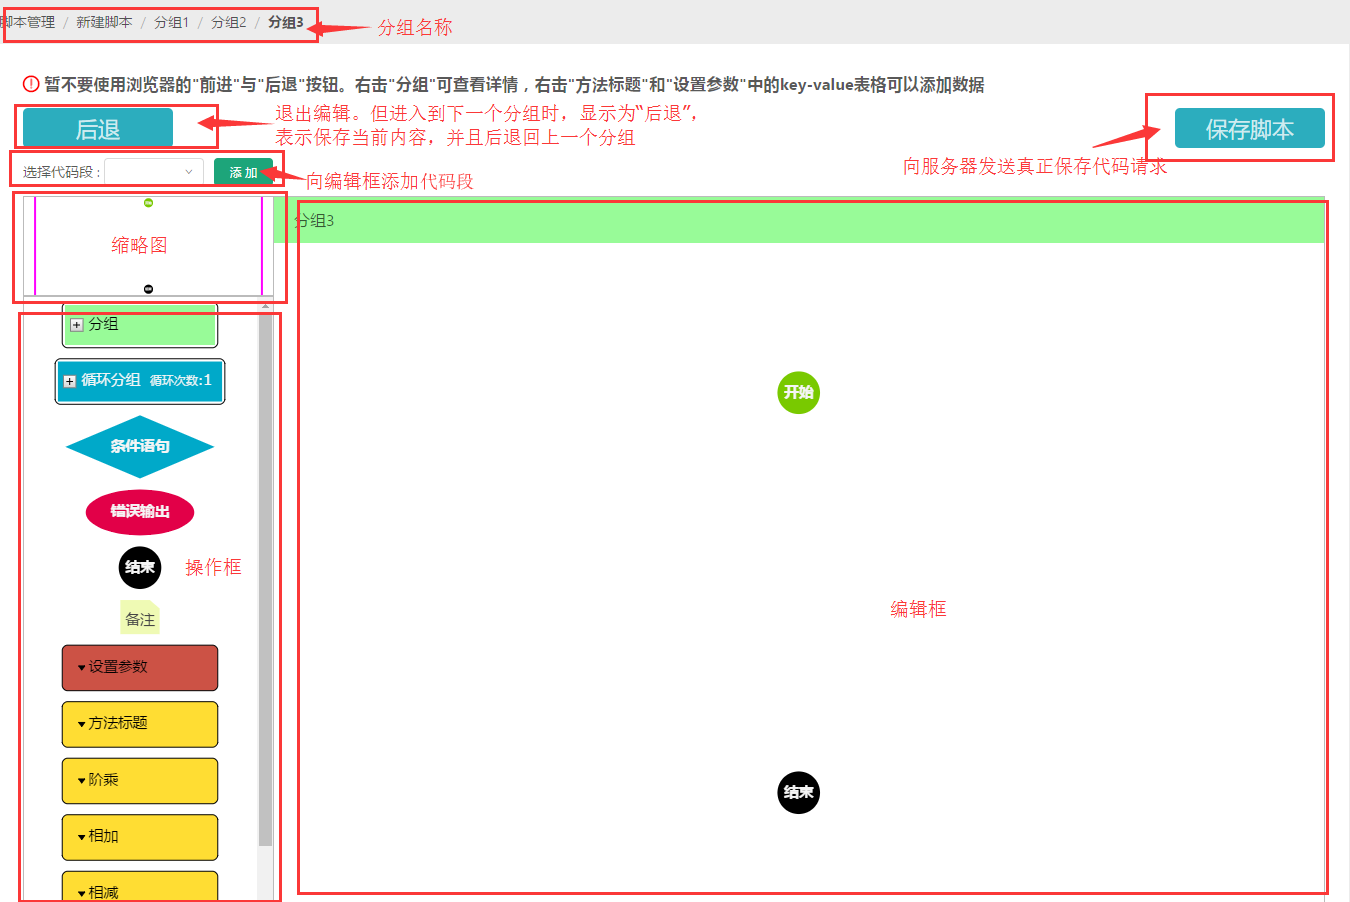
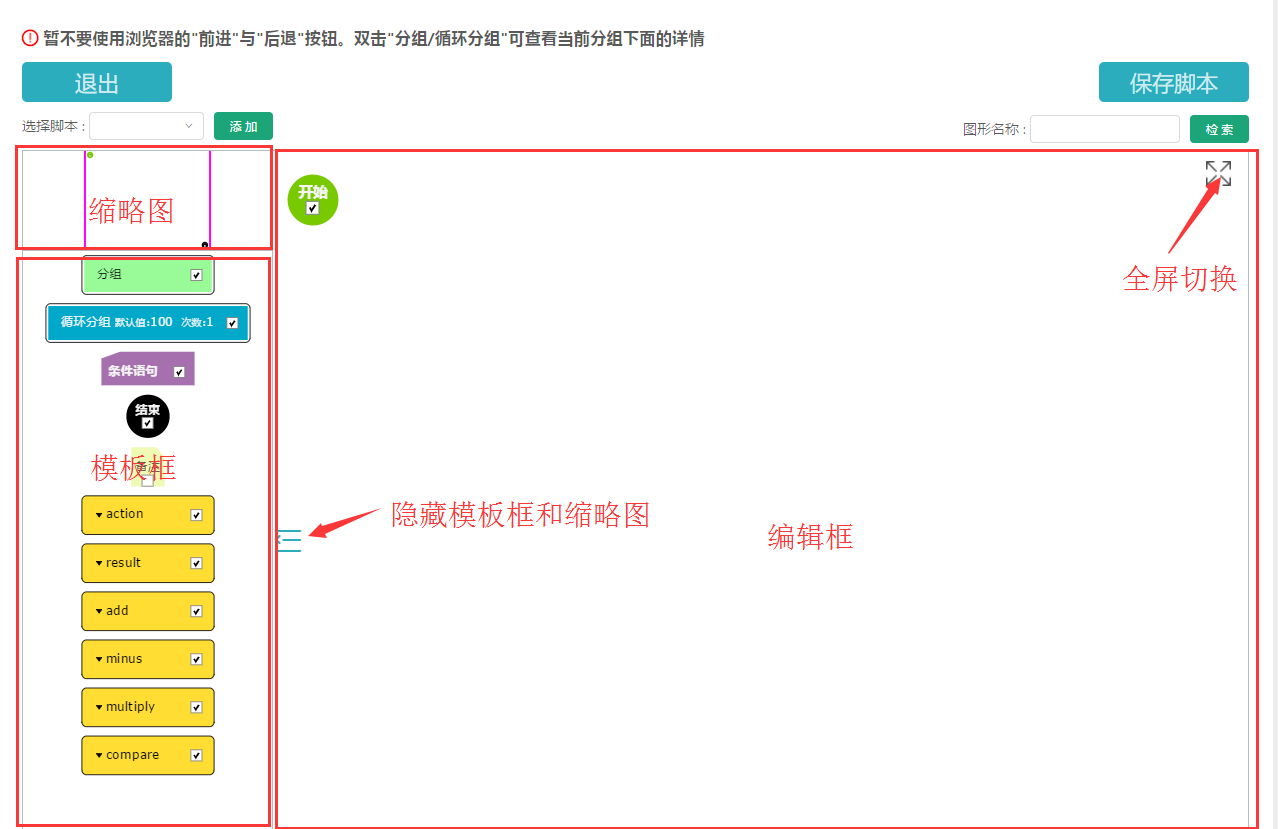
修改测试流程

diff --git a/src/container/hardwareTest/hardwareTesting.js b/src/container/hardwareTest/hardwareTesting.js
@@ -115,13 +115,13 @@ class HardwareTesting extends Component {
         console.log('selected', selectedKeys, info);
     }
     startTesting = ()=> {
-        if(this.state.percent===100){
+        if(this.state.percent===100 &&  !this.state.startLoopTest){
             this.setState({
                 startTest: false,
                 maskDisplay: 'none',
                 percent: 0
-            })
-            this.ws.close()
+            });
+            // this.stopWS()
         }else if (this.state.startTest) {
             const that = this;
             confirm({
@@ -132,7 +132,8 @@ class HardwareTesting extends Component {
                         maskDisplay: 'none',
                         percent: 0
                     });
-                    that.ws.close()
+                    that.ws.close();
+                    // that.stopWS()
                     // clearInterval(that.timer)
                 },
                 onCancel() {
@@ -151,35 +152,12 @@ class HardwareTesting extends Component {
     confirmTesting = ()=> {
         const serialNumbers = this.refs.serialNumbers.refs.input.value;
         const that = this;
-        const params = {
+        const parameters = {
             serial_number: serialNumbers,
             test_script_id: this.state.script.key,
             test_stand_id:this.state.test_stand.key,
-            // adapter_index:this.state.selectedAdapter.key
         }
-        axios({
-            url: `${configJson.prefix}/hardware_test`,
-            method: 'post',
-            params: params,
-            headers: getHeader()
-        })
-            .then(function (response) {
-                console.log(response.data);
-                message.success('开始测试')
-                that.setState({
-                    channel: response.data.channel,
-                    startTestModal: false,
-                    maskDisplay: 'block',
-                    startTest: !that.state.startTest,
-                    serial_number:serialNumbers
-                }, function () {
-                    that.openWS()
-                });
-            }).catch(function (error) {
-            console.log('获取出错', error);
-            converErrorCodeToMsg(error)
-        })
-        console.log('正式开始测试', serialNumbers)
+        that.openWS('start',parameters);
     }
     confirmLoopTesting=()=>{
         const serialNumbers = this.refs.serialNumbers.refs.input.value;
@@ -205,25 +183,59 @@ class HardwareTesting extends Component {
         })
         console.log('正式开始测试', serialNumbers)
     }
-    openWS = ()=> {
+    openWS = (command,parameters)=> {
+        console.log('parameters',parameters);
         const that=this;
-        this.ws = new WebSocket(`${configJson.wsPrefix}:${configJson.wsPort}/?channel=${this.state.channel}`);//url地址类似与get请求
+        this.ws = new WebSocket(`${configJson.wsPrefix}:${configJson.wsPort}/?token=${localStorage.getItem('usertoken')}`);//url地址类似与get请求
         this.ws.onopen = function () {
-            console.log('onopen')
+            console.log('onopen');
+            const sendData=JSON.stringify({
+                command:command,
+                parameters:parameters
+            })
+            that.ws.send(sendData);
         };
         this.ws.onmessage = function (evt) {
-            const {wsMessage}={...that.state}
-            if(JSON.parse(evt.data).percent){
+            const {wsMessage}={...that.state};
+            const evtData=JSON.parse(evt.data)
+            console.log('evt',evtData)
+            if(evtData.status_code === 200 && evtData.type === 'START_TEST'){
+                console.log('开始正确测试');
                 that.setState({
-                    percent:JSON.parse(evt.data).percent,
-                    wsMessage:wsMessage.concat(JSON.parse(evt.data).message)
-                },function () {
-                    if(that.state.percent===100 && that.state.startLoopTest){
-                        console.log('继续开始测试');
-                        that.ws.close()
-                        that.confirmLoopTesting()
-                    }
+                    startTestModal: false,
+                    maskDisplay: 'block',
+                    startTest: true,
                 })
+            }
+            if(evtData.status_code === 200 && evtData.type === 'STOP_TEST'){
+                console.log('结束正确测试');
+                that.ws.close();
+                if(that.state.percent===100 && that.state.startLoopTest){
+                    console.log('继续开始测试');
+                    // that.stopWS();
+                    that.setState({
+                        percent:0,
+                        // startTest:false
+                    });
+                    that.confirmTesting()
+                }
+            }
+            if(evtData.status_code === 200 && evtData.type === 'TESTING' ){
+                console.log('that.state.percent',that.state.percent)
+                that.setState({
+                    percent:evtData.data.percent,
+                    wsMessage:wsMessage.concat(evtData.data.message)
+                })
+            }else if(evtData.status_code === 400 ||evtData.status_code === 401 || evtData.status_code === 403|| evtData.status_code === 422){
+                that.ws.close();
+                if(evtData.errors){
+                    let first;
+                    for (first in evtData.errors) break;
+                    message.error(evtData.errors[first][0]);
+                }else{
+                    message.error(evtData.message);
+                }
+
             }
         };
         this.ws.onclose = function (evt) {
@@ -232,6 +244,15 @@ class HardwareTesting extends Component {
         this.ws.onerror = function (evt) {
             console.log('WebSocketError!');
         };
+    }
+    stopWS=()=>{
+        const sendData=JSON.stringify({
+            command:'stop',
+        });
+        this.ws.send(sendData);
+        console.log('关闭websocket');
+        this.ws.close();
+
     }
     changetScrip=()=>{
         const scriptConfigForm = this.refs.scriptConfigForm.getFieldsValue();
@@ -249,42 +270,6 @@ class HardwareTesting extends Component {
             localStorage.setItem('test_stand', JSON.stringify(this.state.test_stand))
         })
     }
-    // changeAdapter=()=>{
-    //     const adapterConfigForm = this.refs.adapterConfigForm.getFieldsValue();
-    //     this.setState({
-    //         selectedAdapter:{key:adapterConfigForm.adapter.key,label:adapterConfigForm.adapter.label},
-    //         adapterModal:false
-    //     }, function () {
-    //         localStorage.setItem('adapter', JSON.stringify(this.state.selectedAdapter))
-    //     })
-    // }
-    // getAdapter=()=>{
-    //     console.log('获取适配器');
-    //     const that=this;
-    //     this.adapterWs = new WebSocket(`${configJson.wsPrefix}:${configJson.wsPort}/?type=connect_adapter`);
-    //     this.adapterWs.onopen = function () {
-    //         console.log('onopen adapterWs');
-    //         that.adapterWs.send('get_adapters');
-    //     };
-    //     this.adapterWs.onmessage = function (evt) {
-    //         console.log('evt.data',evt.data)
-    //         if(evt.data){
-    //             if(JSON.parse(evt.data).data){
-    //                 console.log('设置evt.data')
-    //                 that.setState({
-    //                     adapter:JSON.parse(evt.data).data
-    //                 })
-    //             }
-    //         }
-    //
-    //     };
-    //     this.adapterWs.onclose = function (evt) {
-    //         console.log('adapterWs WebSocketClosed!');
-    //     };
-    //     this.adapterWs.onerror = function (evt) {
-    //         console.log('adapterWs WebSocketError!');
-    //     };
-    // }
     renderLoopTestBtn=()=>{
         return(
             configJson.env==='development'?

diff --git a/src/container/about.js b/src/container/about.js
@@ -222,13 +222,13 @@ class About extends React.Component {
                                                 <li>
                                                     <h4>1.分组框</h4>
                                                     <img  alt=""  src={require('./about/4.png')}/> <p className="about-p ">
-                                                    右击查看详情可以进入到分组里面，双击文字可以编辑分组名称</p>
+                                                    双击可以进入到分组里面，双击文字可以编辑分组名称</p>
                                                 </li>
 
                                                 <li>
                                                     <h4>2.循环分组框</h4>
                                                     <img  alt=""  src={require('./about/5.png')}/> <p className="about-p ">
-                                                    一种特殊的"分组"，双击循环次数后面的数字可以设置"循环次数"</p>
+                                                    一种特殊的"分组"，双击默认值后面的数字可以设置"默认值"，双击循环次数后面的数字可以设置"循环次数"，</p>
                                                 </li>
                                                 <li>
                                                     <h4>3.条件判断框</h4>
@@ -258,35 +258,12 @@ class About extends React.Component {
                                                 </p>
                                                 </li>
                                                 <li>
-                                                    <h4>4.设置参数框</h4>
-                                                    <img  alt=""  src={require('./about/7.png')}/> <p className="about-p ">
-                                                    设置当前分组的参数，双击key或value可以编辑，右击key-value表格可以添加key-value值</p>
-                                                    <p className="about-p ">参数中的第一个单元格为参数kye</p>
-                                                    <p className="about-p ">参数中的第二个单元格为参数value</p>
-                                                    <p className="about-p ">参数中的第三个单元格为删除当前参数按钮</p>
-                                                </li>
-                                                <li>
-                                                    <h4>5.dll方法框</h4>
+                                                    <h4>4.dll方法框</h4>
                                                     <img  alt=""  src={require('./about/8.png')}/>
-                                                    <p className="about-p ">dll方法。参数和错误码操作如"设置参数框"。</p>
-                                                    <p className="about-p">"方法名称"表示代码中dll方法名称;"结果下限"/"结果上限"表示期待结果的范围;</p>
-                                                    <p className="about-p">"结果变量"表示在将当前的dll方法的结果赋值为这个变量，方便在判断语句中引用。下一层分组可以调用上一层分组定义的"结果变量"</p><br/>
-                                                    <p className="about-p ">参数中的第一个单元格--选择按钮，选中表示该参数是 <b>输出参数</b></p>
+                                                    <p className="about-p">"方法描述"表示代码中dll方法的相关描述</p>
+                                                    <p className="about-p ">参数中的第一个单元格如果有箭头表示该参数是 <b>输出参数</b> 如果没有箭头则表示是普通参数</p>
                                                     <p className="about-p ">参数中的第二个单元格为参数kye</p>
                                                     <p className="about-p ">参数中的第三个单元格为参数value</p>
-                                                    <p className="about-p ">参数中的第四个单元格为删除当前参数按钮</p><br/>
-                                                    <p className="about-p ">错误码中的第一个单元格为错误码kye</p>
-                                                    <p className="about-p ">错误码中的第二个单元格为错误码value</p>
-                                                    <p className="about-p ">错误码中的第三个单元格为删除当前错误码按钮</p>
-                                                </li>
-                                                <li>
-                                                    <h4>6.错误输出</h4>
-                                                    <img  alt=""  src={require('./about/9.png')}/> <p className="about-p " >
-                                                    当需要把'dll方法框'中的相关错误码输出，可以将'dll方法框'与'错误输出框'相连，如下图：<br />
-                                                        <img  alt=""  src={require('./about/10.png')}/><br/>
-
-                                                    当'dll方法1'运行过程中出现指定的错误码404，这时候会调用'dll方法3'，而不是调用'dll方法2'
-                                                </p>
                                                 </li>
                                             </ul>
                                         </div>

diff --git a/src/container/scriptManage/scriptIndex.js b/src/container/scriptManage/scriptIndex.js
@@ -361,7 +361,9 @@ class ScriptIndex extends Component {
             ));
         myDiagram.nodeTemplateMap.add("start",
             $(go.Node, "Spot",
+                // new go.Binding("guid", "num"),
                 {
+                    // copyable: false,
                     deletable: false  // do not allow this node to be removed by the user
                 }, that.nodeStyle(),
                 $(go.Panel, "Auto",
@@ -382,6 +384,7 @@ class ScriptIndex extends Component {
 
         myDiagram.nodeTemplateMap.add("end",
             $(go.Node, "Spot",
+                // new go.Binding("guid", "num"),
                 that.nodeStyle(),
                 $(go.Panel, "Auto",
                     $(go.Shape, "Circle",
@@ -1313,13 +1316,13 @@ class ScriptIndex extends Component {
                 </div>
 
 
-                <div>
-                    {/*<Button id="getCenter" onClick={this.addPalatte}>添加左侧语句</Button>*/}
-                    {/*<Button id="SaveButton" onClick={this.save}>将图表转为JSON</Button>*/}
-                    {/*<Button onClick={this.loadTextAxrea}>将JSON转为图表</Button>*/}
+              {/*  <div>
+                    <Button id="getCenter" onClick={this.addPalatte}>添加左侧语句</Button>
+                    <Button id="SaveButton" onClick={this.save}>将图表转为JSON</Button>
+                    <Button onClick={this.loadTextAxrea}>将JSON转为图表</Button>
                 </div>
 
-                {/*<textarea id="mySavedModel"></textarea>*/}
+                <textarea id="mySavedModel"></textarea>*/}
             </div>
 
 

diff --git a/src/common/common.js b/src/common/common.js
@@ -261,19 +261,19 @@ exports.checkJSon = (myDiagramModel)=> {
 
     let returnCode = 1;
     let returnMsg=[];
-    const groupErrSign=' @ ';
-    const itemErrSign=' :: ';
+    const groupErrSign=' < ';
+    const itemErrSign=' > ';
     //判断每一个group
     const groups = _.groupBy(nodeDataArray, 'group');
     console.log('groups', groups);
     _.forEach(groups, function (group, key) {
         if(key==='undefined'){
-            key='最外层分组'
+            key=' / '
         }else{
             const node=_.find(nodeDataArray,function (o) {
                 return o.key===key
             })
-            key='最外层分组 -> '+listParents(tree,node ).map(x => x.title).concat(node.title).join(' -> ')
+            key='/ '+listParents(tree,node ).map(x => x.title).concat(node.title).join(' / ')
         }
 
         let hasLinkIndiffGroup=_.filter(linkDataArray, function(o) { return _.map(group,'key').indexOf(o.from)!==-1 &&_.map(group,'key').indexOf(o.to)===-1 });

diff --git a/src/container/catagoryManage/addOrEditNmae.js b/src/container/catagoryManage/addOrEditNmae.js
@@ -165,8 +165,8 @@ class AddOrEditNameForm extends React.Component {
                         <FormItem
                             label='通道号'
                             {...formItemLayout}>
-                            {getFieldDecorator('port', {
-                                initialValue: this.props.isEdit ? this.props.editRecord.port : '',
+                            {getFieldDecorator('index', {
+                                initialValue: this.props.isEdit ? this.props.editRecord.index : '',
                                 rules: [{required: true, message: '请输入测试架通道号'}],
                             })(
                                 <Input  />

diff --git a/src/container/scriptManage/scriptInfo.js b/src/container/scriptManage/scriptInfo.js
@@ -15,7 +15,7 @@ class ScriptInfo extends React.Component {
     render() {
         return (
             <div className="scriptInfo" style={{lineHeight:'30px'}}>
-                <h3><Icon type="exclamation-circle-o" style={{marginRight:'5px',color:'red'}}/>暂不要使用浏览器的"前进"与"后退"按钮。右击"分组"可查看详情，右击"方法标题"和"设置参数"中的key-value表格可以添加数据</h3>
+                <h3><Icon type="exclamation-circle-o" style={{marginRight:'5px',color:'red'}}/>暂不要使用浏览器的"前进"与"后退"按钮。双击"分组/循环分组"可查看当前分组下面的详情</h3>
             </div>
         )
     }

diff --git a/src/container/catagoryManage/index.js b/src/container/catagoryManage/index.js
@@ -288,6 +288,14 @@ class Catagory extends Component {
                 title: '测试架名称',
                 dataIndex: 'name',
                 key: 'name'
+            }, {
+                title: 'IP地址',
+                dataIndex: 'ip',
+                key: 'ip'
+            }, {
+                title: '通道号',
+                dataIndex: 'index',
+                key: 'index'
             });
             /*localStorage.getItem('userrole') === '系统管理员' ?
                 columns.push({
